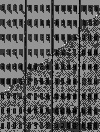
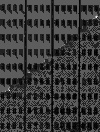
Fix clamping and masks.

diff --git a/code/entropy.py b/code/entropy.py
@@ -50,7 +50,7 @@ def minimize_energy(image, mask, initial_l, phi_l, phi_p, omega_t, omega_p, lamb
         print(f'eta_bar.shape={eta_bar.shape}')
         print(f'A.shape={A.shape}')
         print(f'b.shape={b.shape}')
-        b[mask > 0] = 0
+        b[mask > 5] = 0
 
         prev_r = np.log(image + EPSILON).astype(np.int64) - \
             curr_l.reshape(h,w).astype(np.int64)
@@ -69,11 +69,12 @@ def minimize_energy(image, mask, initial_l, phi_l, phi_p, omega_t, omega_p, lamb
 
         # optimal_r = np.log(image + EPSILON).astype(np.int64) - \
         #     curr_l.reshape((image.shape[0], image.shape[1])).astype(np.int64)
-        curr_image = np.exp(curr_l.reshape((h, w))+prev_r).astype(np.uint8)
+        curr_image = np.exp(curr_l.reshape((h, w)) + prev_r)
+        curr_image /= np.max(curr_image)
         # curr_image = np.multiply(np.exp(curr_l.reshape(
         #     (image.shape[0], image.shape[1]))), np.exp(prev_r)).astype(np.uint8)
-        cv2.imwrite(f'../results/{img_name}_R={R}_{iteration}.jpg', curr_image)
-        # cv2.imwrite(f'../results/{img_name}_{iteration}.jpg', (curr_image * 255).astype(np.uint8))
+        # cv2.imwrite(f'../results/{img_name}_R={R}_{iteration}.jpg', curr_image)
+        cv2.imwrite(f'../results/{img_name}_R={R}_{iteration}.jpg', (curr_image * 255).astype(np.uint8))
         # curr_image = apply_new_illumination(curr_image, curr_l.reshape((h,w)))
 
     return curr_l

diff --git a/code/main.py b/code/main.py
@@ -8,8 +8,8 @@ EPSILON = 1e-6
 
 def main():
     image_path = '../data/'
-    src_name = 'IMG_1167'
-    mask_name = 'shadow_mask'
+    src_name = 'IMG_1171'
+    mask_name = 'mask_1171'
     jpg = '.jpg'
     png='.png'
 
@@ -18,7 +18,7 @@ def main():
     image_gray = cv2.cvtColor(image_color, cv2.COLOR_BGR2GRAY) 
     image = image_gray
     # cv2.imshow("i0", image_gray)
-    mask = cv2.imread( image_path + mask_name + jpg )
+    mask = cv2.imread( image_path + mask_name + png )
     mask_gray = cv2.cvtColor(mask, cv2.COLOR_BGR2GRAY)
 
     # np.set_printoptions(threshold=sys.maxsize)
@@ -34,7 +34,7 @@ def main():
     optimal_l = minimize_energy(image, mask_gray, initial_l, \
                                 phi_l=phi_l, phi_p=phi_p, \
                                 omega_t=omega_t, omega_p=omega_p, \
-                                img_name=src_name, num_iter=10).reshape((image.shape[0], image.shape[1]))
+                                img_name=src_name, num_iter=30).reshape((image.shape[0], image.shape[1]))
     image_gray = image_gray.astype(np.int64)
     optimal_r = np.log(image_gray + EPSILON).astype(np.int64) - optimal_l.astype(np.int64)
     optimal_img = np.multiply(np.exp(optimal_l), np.exp(optimal_r)).astype(np.uint8)
